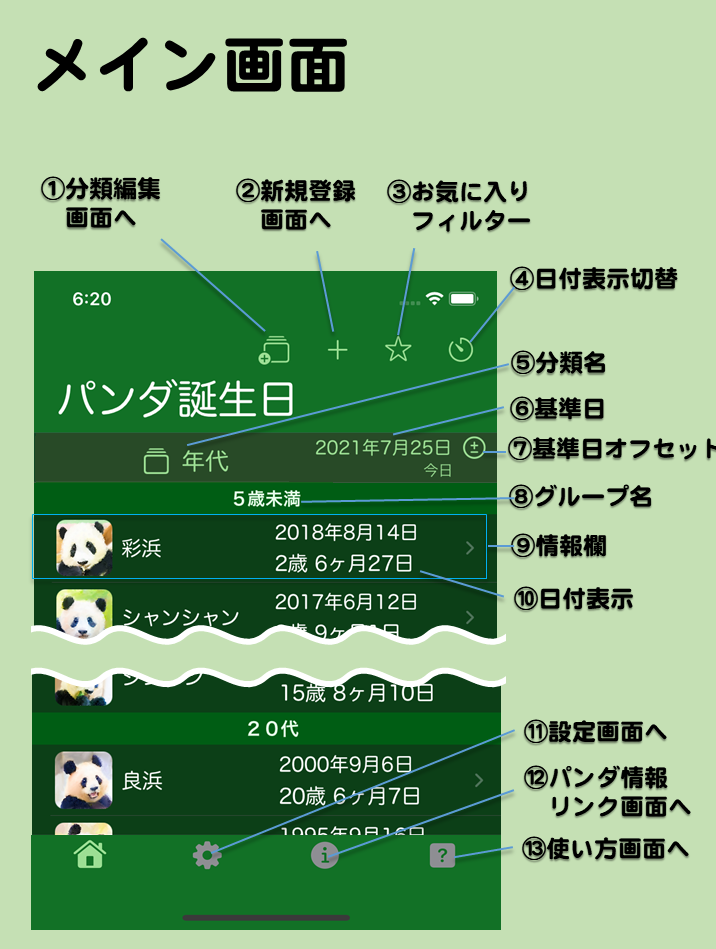
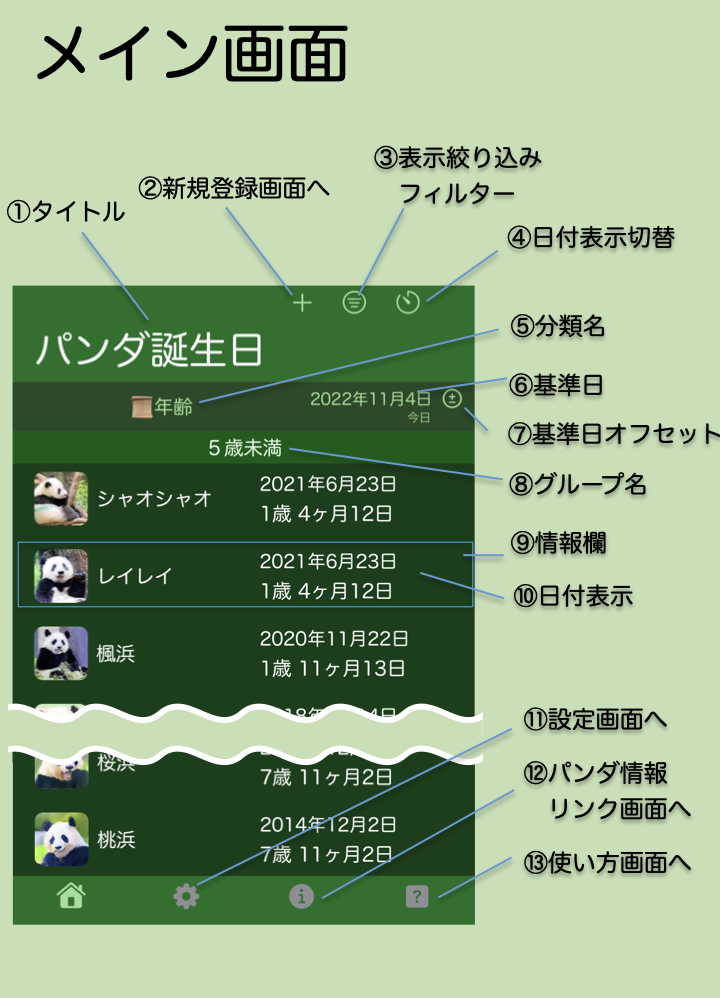
panda v4 manual

diff --git a/pandabirthday/v4_0/help_mainPage.html b/pandabirthday/v4_0/help_mainPage.html
@@ -37,6 +37,10 @@
       dd {
         font-size: 3vmax;
       }
+      ul {
+        margin-left:20px;
+        font-size: 3vmax;
+      }
       
 </style></head>
   <body id="body">
@@ -48,17 +52,37 @@
       <dd><br></dd>
       <dt>画面の説明</dt>
       <dd></dd>
-      <dt>①分類編集画面へ</dt>
-      <dd>タップすると分類編集画面に移動します。表示したい分類を変更したり、分類の表示切り替え順序を変えたりできます。 </dd>
+      <dt>①タイトル</dt>
+      <dd>メイン画面にいることを示します。</dd>
       <dt>②新規登録画面へ</dt>
-      <dd>タップすると新規登録画面に移動します。自分で誕生日やイベントを登録できます。 </dd>
-      <dt>③お気に入りフィルター</dt>
-      <dd>タップするとお気に入りを設定した情報だけ表示するかどうかを切り替えます。★ならフィルターオン（お気に入りだけ表示）、☆ならフィルターオフ（全部の情報を表示）です。
-      各情報のお気に入りは詳細情報画面で設定できます。 </dd>
+      <dd>タップすると新規登録画面に移動します。ユーザーが誕生日やイベントを登録できます。 </dd>
+      <dt>③表示絞り込みフィルター</dt>
+      <dd>フィルターを選んでメイン画面に表示する項目を絞り込んで表示できます。</dd>
+      <ul>
+      <li>デフォルト...現在いるパンダとユーザー登録データ
+      <li>ユーザーデータ...ユーザー登録データ
+      <li>お気に入り...お気に入り登録したデータ
+      <li>今いるパンダ...今日本にいるパンダ
+      <li>過去も含むパンダ...過去日本にいたパンダを含むパンダ
+      <li>全てのデータ...過去日本にいたパンダを含むパンダとユーザー登録データ
+      </ul>
       <dt>④日付表示切替</dt>
-      <dd>情報欄の日付表示を年表示、年月日表示、日数表示に切り換えます。現在表示中の分類によって切り替わる日数表示が変わります。</dd>
+      <dd>情報欄の日付表示を年表示、年月日表示、日数表示に切り換えます。現在表示中の分類によって切り替わる日数表示が変わります。分類ごとに設定を覚えます。</dd>
       <dt>⑤分類名</dt>
-      <dd>現在表示している分類の種類を示します。タップすると次の分類に表示を切り替えます。長押しすると先頭の分類に表示を切り換えます。表示したい分類の選択・並び替えは分類編集画面で行えます。</dd>
+      <dd>現在表示している分類の種類を示します。タップすると分類選択メニューから表示分類を選べます。</dd>
+      <ul>
+      <li>場所...場所で分類表示します
+      <li>年齢...年齢順に表示し、年代で分類します
+      <li>人間年齢...人間年齢に換算した年齢順に表示し、年代で分類します
+      <li>誕生月...年間の誕生月日順に表示し、月で分類します
+      <li>来日日...来日日順に表示し、年代で分類します
+      <li>帰国日...帰国日順に表示し、年代で分類します。すでに帰国したパンダ以外の情報は更新されることがあります
+      <li>死亡日...フィルターで過去も含むパンダか全てのデータを選んだ時に、亡くなったパンダを死亡日順に表示し、年代で分類します
+      <li>在日期間...パンダが日本にいる期間の順に表示し、年代で分類します
+      <li>性別...性別で分類します
+      <li>種別...種別で分類します
+      <li>お気に入り...お気に入りに入っているかどうかで分類します
+      </ul>
       <dt>⑥基準日</dt>
       <dd>年齢計算の基準日を表示します。日付の下には基準日が何を表示しているかラベルを表示します。初期値は今日です。<br>タップすると基準日入力（後述）が表示されます。その入力に応じて各情報欄の年齢などを再計算して表示します。例えば任意の日にどのパンダが何歳だったとか、生まれる何年前だったかとかがわかります。</dd>
       <dt>⑦基準日オフセットボタン</dt>
@@ -68,7 +92,7 @@
       <dt>⑨情報欄</dt>
       <dd>パンダ情報もしくは利用者が登録した情報の抜粋表示です。アイコン、名前、日付を表示します。iPadなどの画面が広い機種では場所も表示します。情報欄をタップすると詳細情報画面に移動します。</dd>
       <dt>⑩日付表示</dt>
-      <dd>情報毎の日付を表示します。分類が帰国期日ならば帰国期日とそれまでの日数を示し、誕生月なら誕生月日と次の誕生日までの日にち、人間換算年代なら誕生日と人間年齢に換算した年齢、それ以外なら誕生日と経過日数を示します。日付表示切り替えアイコンをタップする度に表示方法が変わります。</dd>
+      <dd>情報毎の日付を表示します。分類が来日日、帰国日、死亡日ならばそれぞれとそれまでの日数を示し、誕生月なら誕生月日と次の誕生日までの日にち、人間換算年代なら誕生日と人間年齢に換算した年齢、それ以外なら誕生日と経過日数を示します。日付表示切り替えアイコンをタップする度に表示方法が変わり、分類毎に表示方法を覚えます。</dd>
       <dt>⑪設定画面へ</dt>
       <dd>タップすると設定画面に移動します。</dd>
       <dt>⑫パンダ情報リンク画面へ</dt>

diff --git a/pandabirthday/v4_0/help_settingPage.html b/pandabirthday/v4_0/help_settingPage.html
@@ -37,7 +37,10 @@
       dd {
         font-size: 3vmax;
       }
-
+      ul {
+        margin-left:20px;
+        font-size: 3vmax;
+      }
       
 </style></head>
   <body id="body">
@@ -52,41 +55,45 @@
       <dt>①設定Appオープンボタン</dt>
       <dd>通知設定の変更のために設定Appを開きます。通知の有効・無効を切り替えたいときや通知音のON/OFFを切り替えたいときに使います。<p>通知音が気になるときはこの設定でサウンドをOFFにしてください。</dd>
       <dt>②通知頻度選択</dt>
-      <dd>通知頻度を選択できます。
+      <dd>通知頻度を選択できます。</dd>
       <ul>
         <li>最小限...誕生日やイベント日の当日のみ通知します。
         <li>お気に入り...お気に入りのデータのみ当日前後にも通知します。
         <li>多め...すべてのデータで当日前後にも通知します。
       </ul>
-      当日前後の通知の例
+      <dd>当日前後の通知の例</dd>
       <ul>
         <li>誕生日... 誕生後1か月後、2か月後など(1年間)
         <li>イベント日...イベント1年前、2年前など
         <li>共通...その年の誕生日・イベント日の1か月前、1週間前など
       </ul>
-	  </dd>
-      <dt>③データ再読み込みボタン</dt>
+      <dt>③過去パンダ通知設定</dt>
+	  <dd>帰国したパンダおよび亡くなったパンダの誕生日にも通知するか選択できます。</dd>
+      <dt>④表示設定</dt>
+	  <dd>表示に関する設定です。</dd>
+      <ul>
+        <li>メイン画面や詳細画面のパンダ名の横に飛行機(帰国したパンダ)かお墓(亡くなったパンダ)かを示すアイコンを表示するかどうか
+        <li>年齢計算するときに亡くなったパンダの年齢は死亡した時の年齢を上限とするかどうか
+        <li>新規追加画面や編集画面で死亡日入力表示をするかどうか
+      </ul>
+      <dt>⑤データ再読み込みボタン</dt>
       <dd>Appデータをネットから再読み込みします。画像やデータが正しく読み込みできてないように見える時に押してください。</dd>
-      <dt>④ユーザー登録ファイル管理ボタン</dt>
+      <dt>⑥ユーザー登録ファイル管理ボタン</dt>
       <dd>ユーザー登録データをファイルに保存したり読み出したりできるユーザー登録ファイル管理画面を表示します。</dd>
-      <dt>⑤お気に入りファイル管理ボタン</dt>
+      <dt>⑦お気に入りファイル管理ボタン</dt>
       <dd>お気に入りデータをファイルに保存したり読み出したりできるお気に入りファイル管理画面を表示します。</dd>
-      <dt>⑥登録データリセットボタン</dt>
-      <dd>現在Appに登録されているユーザーデータをリセットします。保存したファイルは消えません。</dd>
-      <dt>⑦お気に入りリセットボタン</dt>
-      <dd>現在Appに設定されているお気に入りをリセットします。保存したファイルは消えません。</dd>
-      <dt>⑧未使用ユーザー登録画像クリアボタン</dt>
-      <dd>アイコン画像として追加したけれど現在は使われていない画像を一括クリアできます。現在使われているアイコン画像はクリアされません。</dd>
+      <dt>⑧登録データリセットボタン、お気に入りリセットボタン</dt>
+      <dd>現在Appに登録されているユーザーデータやお気に入りをリセットします。保存してあるファイルは消えません。</dd>
+      <dt>⑨未使用ユーザー登録画像クリアボタン</dt>
+      <dd>アイコン画像として追加したけれど現在は使われていない画像を一括でクリアできます。現在使われているアイコン画像はクリアされません。</dd>
       <dt>⑨バージョン表示</dt>
       <dd>今使っているAppのバージョン番号を表示します。AppStore にある最新のバージョンと同じか確認できます。</dd>
-      <dt>⑩バージョン履歴表示ボタン</dt>
-      <dd>今までのバージョン毎の変更内容の履歴を表示できます。</dd>
+      <dt>⑩バージョン表示、バージョン履歴表示</dt>
+      <dd>今のアプリのバージョンと今までのバージョン毎の変更内容の履歴を表示できます。</dd>
       <dt>⑪AppStore表示ボタン</dt>
-      <dd>AppStoreの本Appのページを表示できます。</dd>
-      <dt>⑫レビューページ表示ボタン</dt>
-      <dd>AppStoreのレビューページを開いてレビューをすることができます。</dd>
-      <dt>⑬フィードバックボタン</dt>
-      <dd>メールAppを開いて本アプリの作者にメールでフィードバックできます。</dd>
+      <dd>AppStoreの本Appのページを表示したり、AppStoreのレビューページを直接開けます。</dd>
+      <dt>⑫フィードバックボタン</dt>
+      <dd>本アプリの作者のTwitterのページを開いたり、メールAppを開いて本アプリの作者にフィードバックできます。バグやパンダデータの不備やご感想など、お気軽にどうぞ。</dd>
     </dl>
   </body>
 </html>

diff --git a/pandabirthday/v4_0/help_detailPage.html b/pandabirthday/v4_0/help_detailPage.html
@@ -52,28 +52,30 @@
       <dt>①メイン画面に戻る</dt>
       <dd>メイン画面に戻ります。</dd>
       <dt>②日付表示切替</dt>
-      <dd>このページの誕生日や来日日、帰国期日の表示形式を切り替えます。</dd>
+      <dd>このページの誕生日や来日日、帰国期日のなどの日付の表示形式を切り替えます。</dd>
       <dt>③基準日</dt>
       <dd>年齢計算の基準日を表示します。初期値は今日です。タップすると任意の日を入力することができます。</dd>
       <dd>± をタップすると基準日のオフセット（差分）を入力できます。</dd>
-      <dt>④アイコン</dt>
+      <dt>④お気に入りボタン</dt>
+      <dd>タップするとお気に入りにします。もう一度押すとお気に入りを解除します。</dd>
+      <dt>⑤アイコン</dt>
       <dd>タップするとアイコンの変更ができます。</dd>
       <dd>アイコン右下の✖印をタップするとそのアイコンを削除できます。</dd>
-      <dd>画像追加を選ぶとアイコンを追加できます。登録済みアイコンから選ぶか、写真アルバムから選ぶことができます。</dd>
+      <dd>画像追加を選ぶとアイコンを追加できます。登録済みアイコンから選ぶか、写真アルバムから選ぶことができます。複数の画像を追加できます。</dd>
       <dd>パンダ情報では、プリセット画像に戻すを選ぶことでデフォルトの画像に戻すことができます。</dd>
-      <dt>⑤お気に入りボタン</dt>
-      <dd>タップするとお気に入りにします。もう一度押すとお気に入りを解除します。</dd>
       <dt>⑥誕生日</dt>
       <dd>誕生日を表示します。情報がイベントの場合はイベント日を表示します。<br>タップすると誕生日を基準日にセットできます。これによってこのパンダが生まれた時に両親や兄弟が何歳だったかとかがわかります。</dd>
       <dt>⑦年齢</dt>
       <dd>年齢、人間年齢に換算した年齢を表示します。イベントの場合はイベントまでもしくはイベントからの日数を表示します。<br>日付表示切り替えを押すことで日数の表示形式を切り換えられます。</dd>
       <dd>年齢をタップすると、任意の年齢の誕生日を基準日を設定することができます。</dd>
-      <dt>⑧両親や兄弟姉妹、子供</dt>
+      <dd>パンダによってはこの下に来日日、帰国日（帰国期日）、死亡日などが表示されます。</dd>
+      <dd>それぞれの日のこのパンダの当時の年齢や人間換算年齢も表示されます。</dd>
+      <dt>⑧在日期間</dt>
+      <dd>このパンダが日本にいる期間を表示します。誕生日もしくは来日日から、現在もしくは帰国日、死亡日までの期間を示します。</dd>
+      <dt>⑨両親や兄弟姉妹、子供</dt>
       <dd>両親の名前を表示します。<br>登録されている名前の場合は名前をタップするとその親の詳細情報画面を表示します。兄弟姉妹や子供がいる場合はその名前を表示し、登録されている場合は名前をタップすると詳細情報画面を表示できます。</dd>
-      <dt>⑨出生地と現住地</dt>
+      <dt>⑩出生地と現住地</dt>
       <dd>生まれた場所、今いる動物園を示します。イベントの場合はイベントの場所を表示します。<br>パンダの情報ならタップするとそれぞれの場所の情報があるサイトをブラウザで開きます。</dd>
-      <dt>⑩帰国期日</dt>
-      <dd>帰国期日が決まっている場合にそれを表示します。中国から来日したパンダは来日日も表示します。<br>タップするとそれぞれ基準日に設定できます。それによって帰国する時には何歳になっているかとか、来日した時は何歳だったかとかがわかります。</dd>
       <dt>⑪関連情報</dt>
       <dd>このパンダに関連する情報サイトへのリンクです。タップするとそれぞれのサイトをブラウザで開きます。</dd>
       

diff --git a/pandabirthday/v4_0/help_addPage.html b/pandabirthday/v4_0/help_addPage.html
@@ -67,13 +67,15 @@
       <dd>性別を選択します。③種類選択で誕生日を選んだ場合に表示されます。</dd>
       <dt>⑧種別選択</dt>
       <dd>パンダもしくは犬、猫を選んだ場合は、人間年齢に換算した年齢を詳細画面で表示できます。③種類選択で誕生日を選んだ場合に表示されます。</dd>
-      <dt>⑨場所入力</dt>
-      <dd>現在いる場所もしくはイベントの場所を入力します。メイン画面でグルーピングに「場所」を選んだ時に同じ場所がまとめられて表示されます。</dd>
-      <dt>⑩関連情報リンク入力</dt>
+      <dt>⑨死亡日入力</dt>
+      <dd>設定画面の表示設定で新規登録・編集画面で死亡日を入力できるように設定した場合に表示されます。死亡を選択すると死亡日を入力できます。死亡日を入力すると詳細画面で享年などが表示されます。</dd>
+      <dt>⑩場所入力</dt>
+      <dd>現在いる場所もしくはイベントの場所を入力します。メイン画面で分類を「場所」をした場合に同じ場所がまとめられて表示されます。</dd>
+      <dt>⑪関連情報リンク入力</dt>
       <dd>ネット上の関連情報のサイトにリンクしたいときにそのURLとタイトルを入力できます。追加ボタンを押してから、タイトルとURLを入力します。</dd>
       <dd>削除したい時は左にドラッグして表示される削除ボタンを押して下さい。</dd>
-      <dt>⑪メモ入力</dt>
-      <dd>メモを入力できます。</dd>
+      <dt>⑫メモ入力</dt>
+      <dd>メモを入力できます。「備考：」などのように「：」で始まる短い単語から始めると、詳細画面の「メモ：」を置き換えて表示できます。</dd>
     </dl>
   </body>
 </html>

diff --git a/pandabirthday/v4_0/help_editPage.html b/pandabirthday/v4_0/help_editPage.html
@@ -66,12 +66,14 @@
       <dd>性別を選択します。③種類選択で誕生日を選んだ場合に表示されます。</dd>
       <dt>⑧種別選択</dt>
       <dd>パンダもしくは犬、猫を選んだ場合は、人間年齢に換算した年齢を詳細画面で表示できます。③種類選択で誕生日を選んだ場合に表示されます。</dd>
-      <dt>⑨場所入力</dt>
+      <dt>⑨死亡日入力</dt>
+      <dd>設定画面の表示設定で新規登録・編集画面で死亡日を入力できるように設定した場合に表示されます。死亡を選択すると死亡日を入力できます。死亡日を入力すると詳細画面で享年などが表示されます。</dd>
+      <dt>⑩場所入力</dt>
       <dd>現在いる場所もしくはイベントの場所を入力します。メイン画面でグルーピングに「場所」を選んだ時に同じ場所がまとめられて表示されます。</dd>
-      <dt>⑩関連情報リンク入力</dt>
+      <dt>⑪関連情報リンク入力</dt>
       <dd>ネット上の関連情報のサイトにリンクしたいときにそのURLとタイトルを入力できます。追加ボタンを押してから、タイトルとURLを入力します。</dd>
       <dd>削除したい時は左にドラッグして表示される削除ボタンを押して下さい。</dd>
-      <dt>⑪メモ入力</dt>
+      <dt>⑫メモ入力</dt>
       <dd>メモを入力できます。</dd>
     </dl>
   </body>
